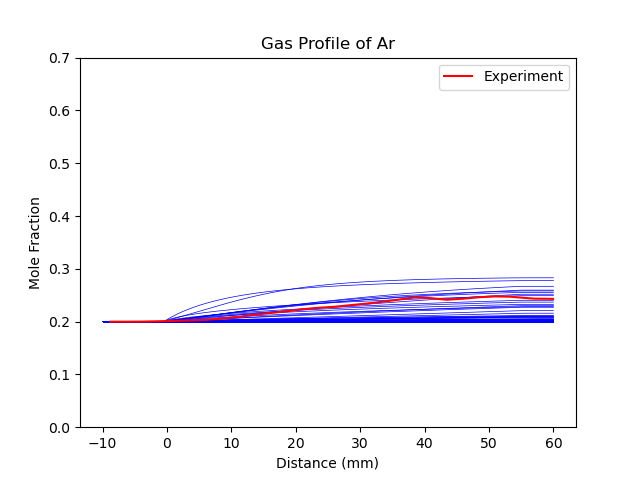
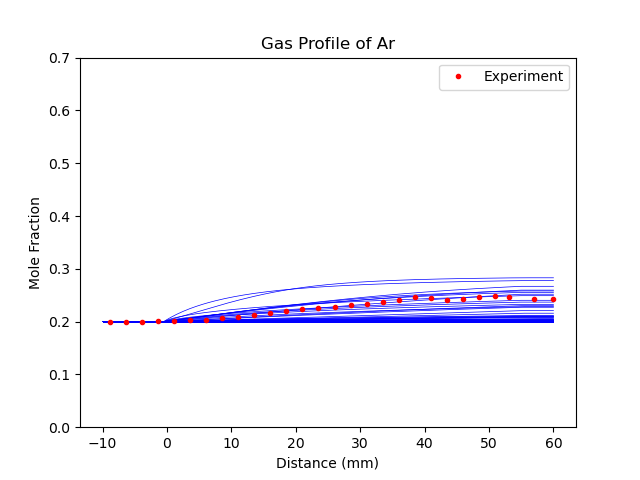
Updated the formating on the 100 mechanism plots

diff --git a/scripts/modeling/simulate_100_mechanisms.py b/scripts/modeling/simulate_100_mechanisms.py
@@ -56,7 +56,7 @@ print(f'error rate of {error_number / len(mechanism_numbers)}')
 
 df = pd.read_csv('data/CO2.csv', names=['X', 'Y'])
 plt.figure(1)
-plt.plot(df['X'], df['Y'].transform(lambda x: x / 100), 'r', label='Experiment')
+plt.plot(df['X'], df['Y'].transform(lambda x: x / 100), 'r.', label='Experiment')
 plt.legend()
 plt.savefig('results/Gas_Profile_CO2.png')
 
@@ -64,7 +64,7 @@ plt.savefig('results/Gas_Profile_CO2.png')
 
 df = pd.read_csv('data/H2.csv', names=['X', 'Y'])
 plt.figure(2)
-plt.plot(df['X'], df['Y'].transform(lambda x: x / 100), 'r', label='Experiment')
+plt.plot(df['X'], df['Y'].transform(lambda x: x / 100), 'r.', label='Experiment')
 plt.legend()
 plt.savefig('results/Gas_Profile_H2.png')
 
@@ -72,7 +72,7 @@ plt.savefig('results/Gas_Profile_H2.png')
 
 df = pd.read_csv('data/Ar.csv', names=['X', 'Y'])
 plt.figure(3)
-plt.plot(df['X'], df['Y'].transform(lambda x: x / 100), 'r', label='Experiment')
+plt.plot(df['X'], df['Y'].transform(lambda x: x / 100), 'r.', label='Experiment')
 plt.legend()
 plt.savefig('results/Gas_Profile_Ar.png')
 
@@ -80,7 +80,7 @@ plt.savefig('results/Gas_Profile_Ar.png')
 
 df = pd.read_csv('data/H20.csv', names=['X', 'Y'])
 plt.figure(4)
-plt.plot(df['X'], df['Y'].transform(lambda x: x / 100), 'r', label='Experiment')
+plt.plot(df['X'], df['Y'].transform(lambda x: x / 100), 'r.', label='Experiment')
 plt.legend()
 plt.savefig('results/Gas_Profile_H2O.png')
 
@@ -88,7 +88,7 @@ plt.savefig('results/Gas_Profile_H2O.png')
 
 df = pd.read_csv('data/CH4.csv', names=['X', 'Y'])
 plt.figure(5)
-plt.plot(df['X'], df['Y'].transform(lambda x: x / 100), 'r', label='Experiment')
+plt.plot(df['X'], df['Y'].transform(lambda x: x / 100), 'r.', label='Experiment')
 plt.legend()
 plt.savefig('results/Gas_Profile_CH4.png')
 
@@ -96,7 +96,7 @@ plt.savefig('results/Gas_Profile_CH4.png')
 
 df = pd.read_csv('data/CO.csv', names=['X', 'Y'])
 plt.figure(6)
-plt.plot(df['X'], df['Y'].transform(lambda x: x / 100), 'r', label='Experiment')
+plt.plot(df['X'], df['Y'].transform(lambda x: x / 100), 'r.', label='Experiment')
 plt.legend()
 plt.savefig('results/Gas_Profile_CO.png')
 
